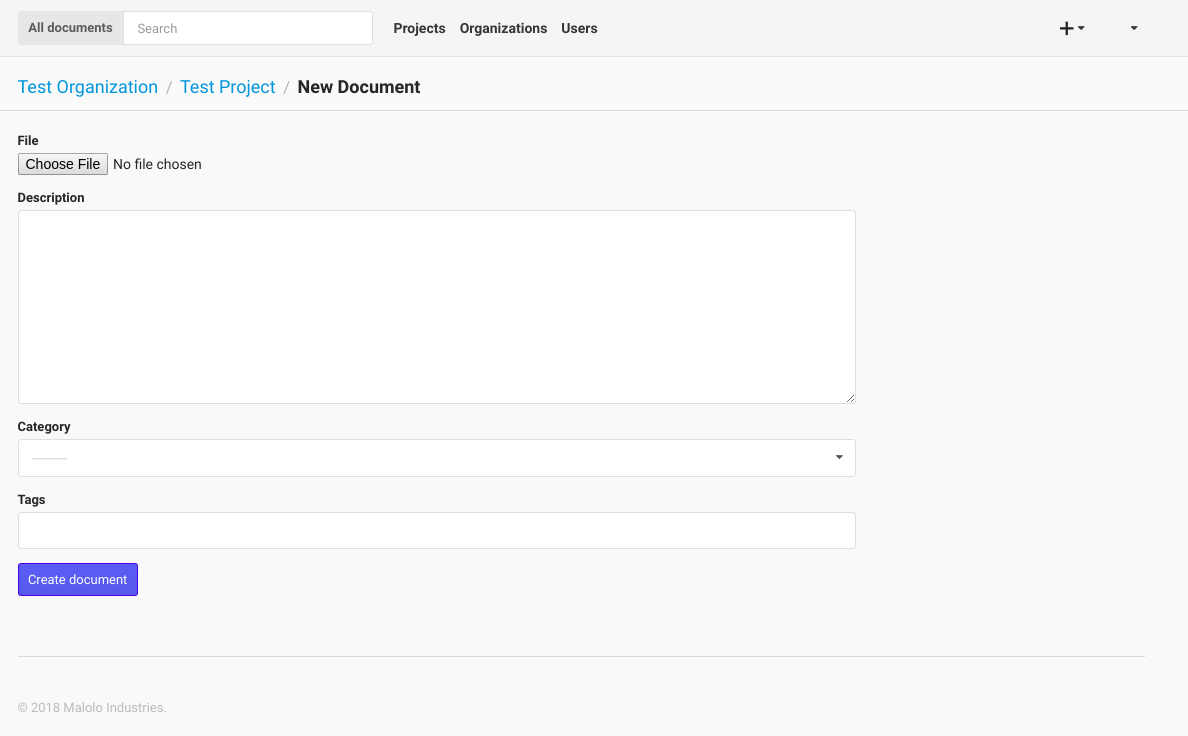
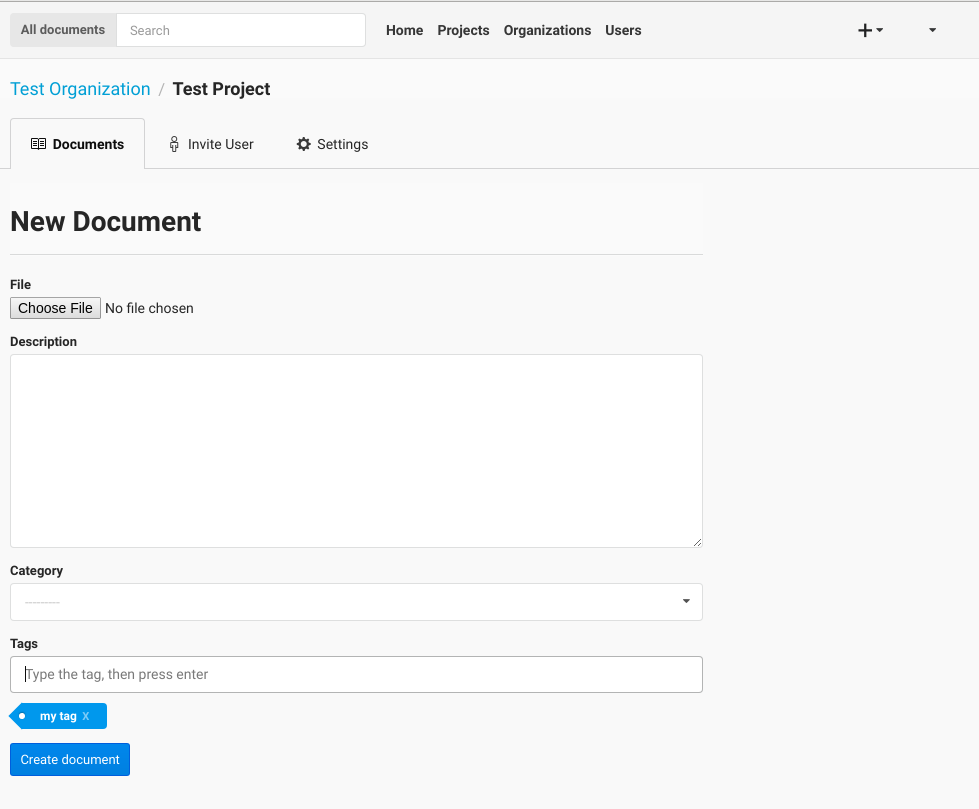
* Update the documentation to reflect the changes made to the tag interface. * Add a sentance on how a user can now use tags to search for their documents.

diff --git a/docs/user/projects.rst b/docs/user/projects.rst
@@ -22,8 +22,8 @@ Project Page
 
 Once you have selected a Project to work on from the Projects Page, you will be taken to the Project page. This is
 where you can interact with the Project's resources. In the Documents tab, you can **upload** a new Document by choosing
-the file to upload, the giving the file a description. Once you have done this, you can click the "Upload Document"
-button to upload the new Document.
+the file to upload, the giving the file a description, and optionally add document specific tags. Once you have done
+this, you can click the "Upload Document" button to upload the new Document.
 
 .. image:: _imgs/new_document.png
 

diff --git a/docs/user/home.rst b/docs/user/home.rst
@@ -16,7 +16,7 @@ on this below.
 .. image:: _imgs/home.png
 
 You can also use the search box in the top navigation bar to search for documents based on the document name,
-the author, and the description text of the document. Using the search box at this level will search over all of the
+the author, tags, and the description text of the document. Using the search box at this level will search over all of the
 documents that you have permissions to view.
 
 In addition to the search box, there is also the "Add Resources" button in the top right corner (the + button).
